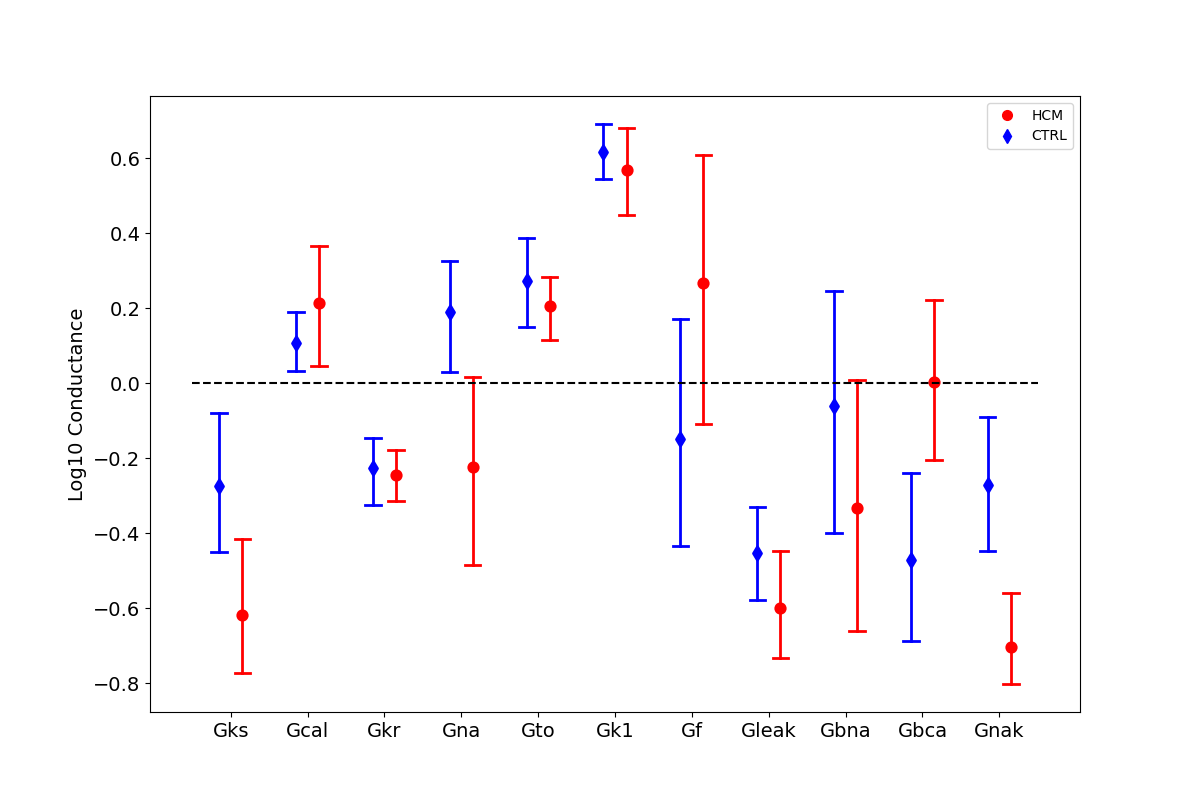
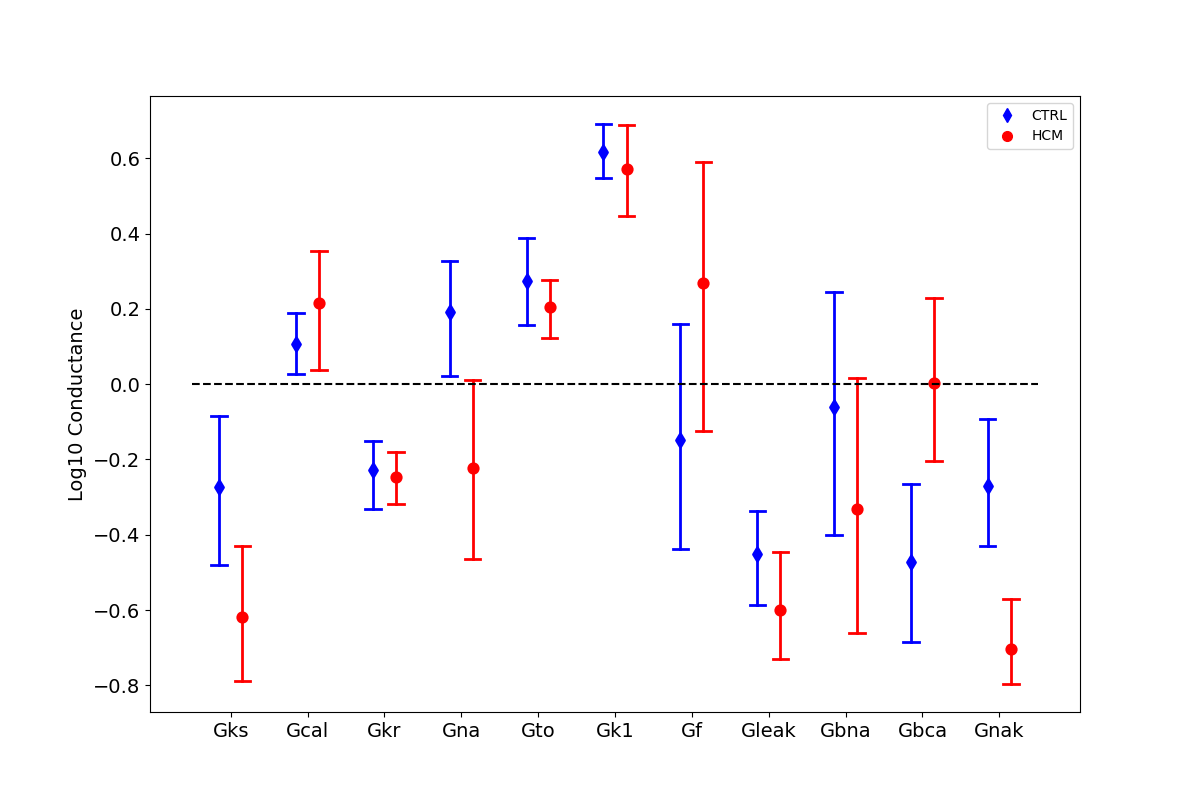
new

diff --git a/GA_bNa_bCa_NaK/bar_plot.py b/GA_bNa_bCa_NaK/bar_plot.py
@@ -54,7 +54,7 @@ sns.pointplot(df_all, x='conductance_name', y='parameter_value', hue='cell_type'
 red_circle = mlines.Line2D([], [], color='red', marker='o', linestyle='None', markersize=7, label='HCM')
 blue_diamond = mlines.Line2D([], [], color='blue', marker='d', linestyle='None', markersize=7, label='CTRL')
 
-plt.legend(handles=[red_circle, blue_diamond])
+plt.legend(handles=[blue_diamond, red_circle])
 plt.hlines(0, -.5, (len(keys)-.5), colors='black', linestyle='--')
 plt.xticks(fontsize=14)
 plt.yticks(fontsize=14)
@@ -73,7 +73,7 @@ sns.pointplot(df_all, x='conductance_name', y='parameter_value', hue='cell_type'
 red_circle = mlines.Line2D([], [], color='red', marker='o', linestyle='None', markersize=7, label='HCM')
 blue_diamond = mlines.Line2D([], [], color='blue', marker='d', linestyle='None', markersize=7, label='CTRL')
 
-plt.legend(handles=[red_circle, blue_diamond])
+plt.legend(handles=[ blue_diamond, red_circle])
 plt.hlines(0, -.5, (len(keys)-.5), colors='black', linestyle='--')
 plt.xticks(label=['GKs','GCal','GKr','GNa','Gto','GK1','Gf','Gleak','GbNa','GbCa','GNaK'],fontsize=14)
 plt.yticks(fontsize=14)
